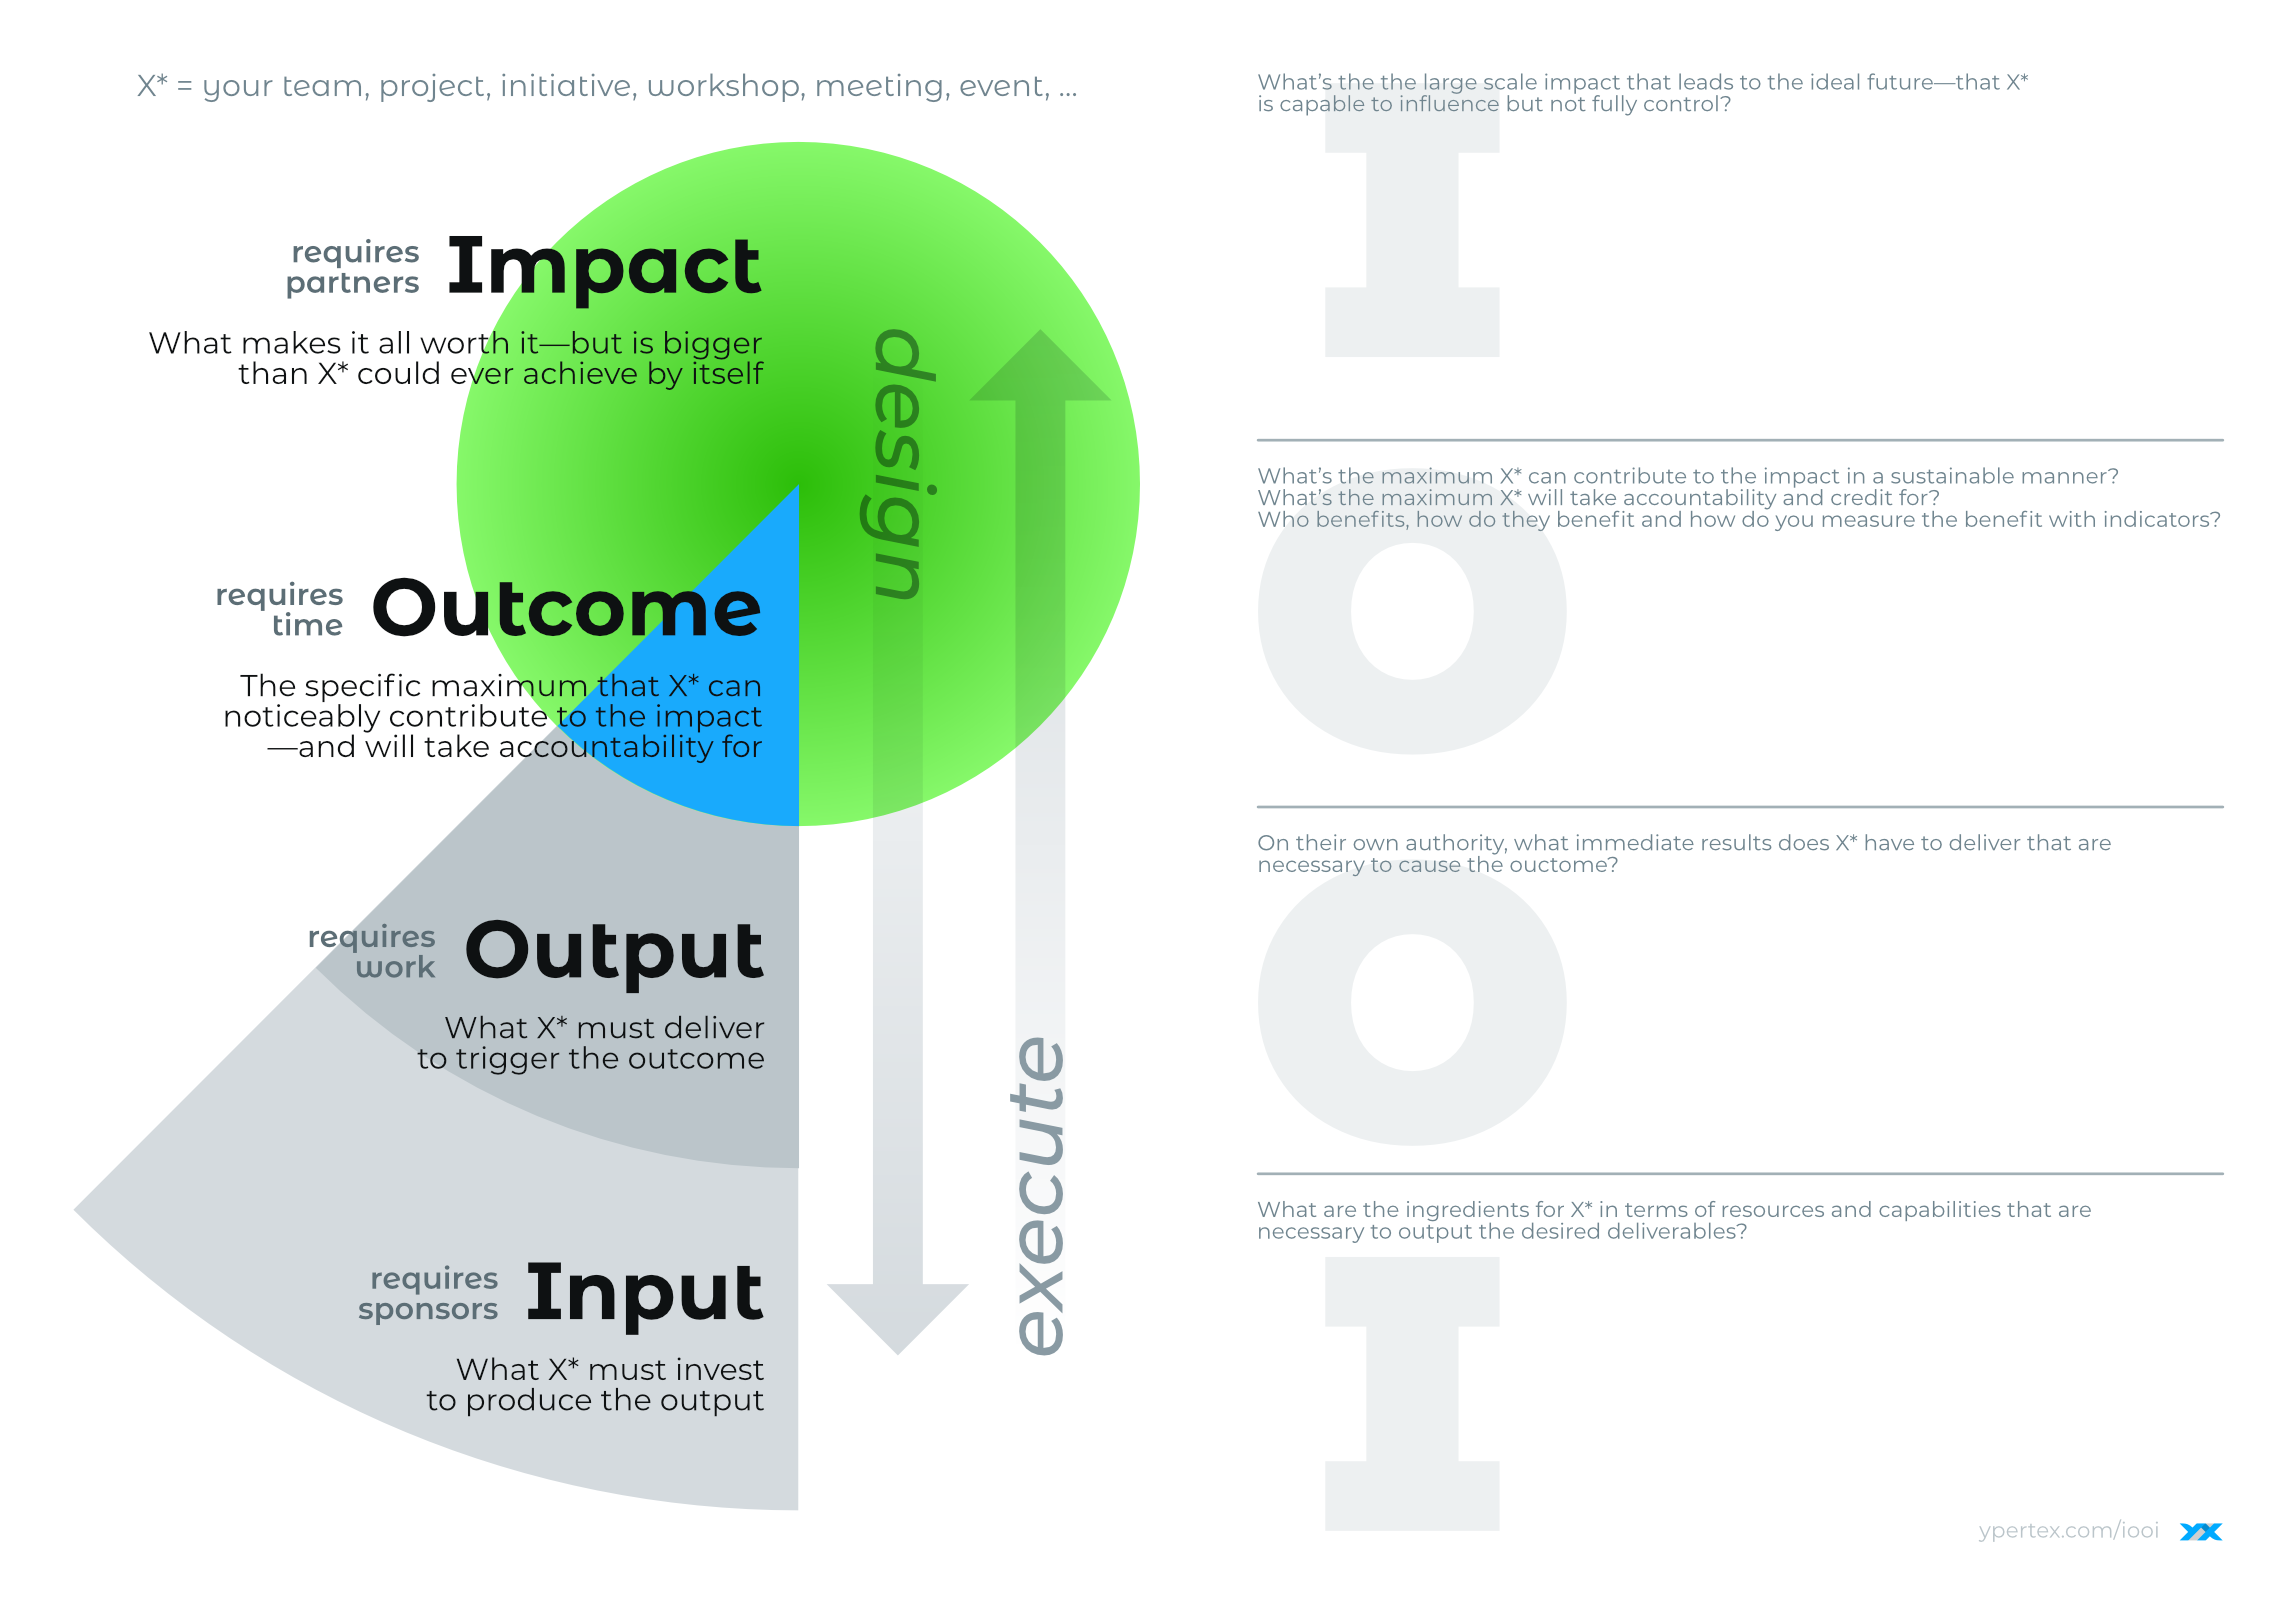
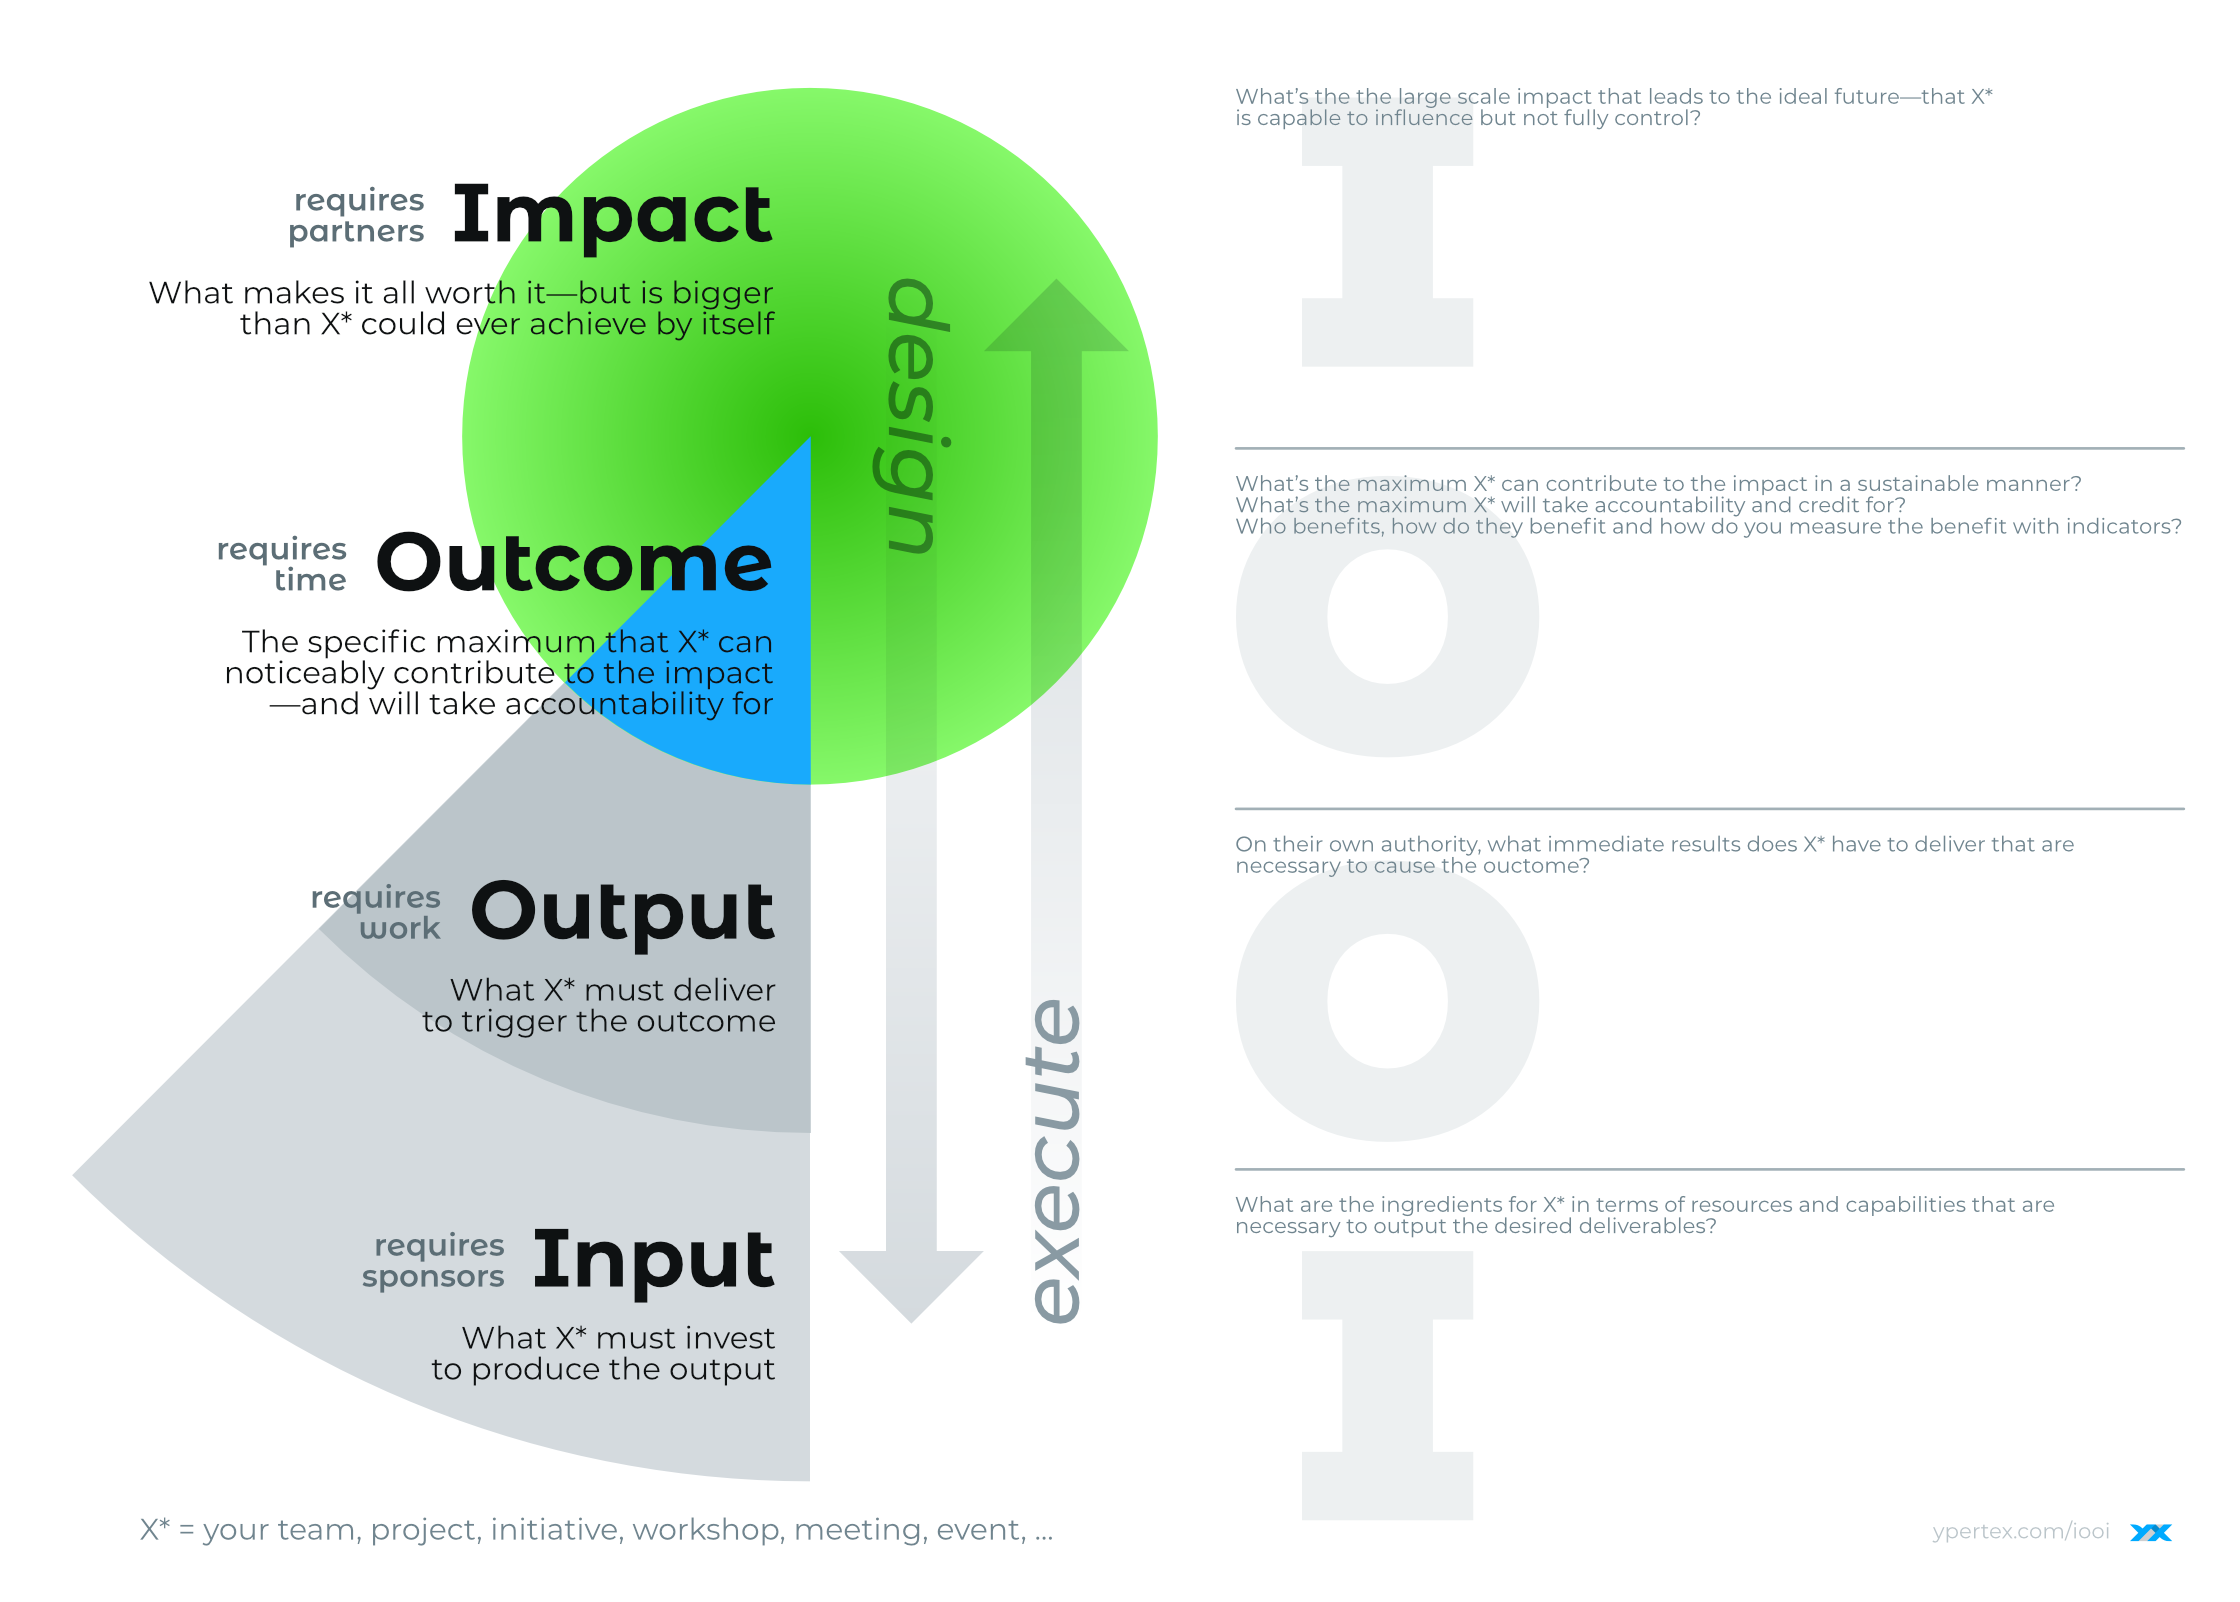
Updated canvas

diff --git a/public/articles/iooi/index.html b/public/articles/iooi/index.html
@@ -189,14 +189,14 @@
     
     <picture>
         <source media="(min-width: 1200px)"
-            srcset="https://res.cloudinary.com/ypertex/image/upload/c_scale,dpr_auto,f_auto,q_auto,w_760/0e188bfc-80f4-449e-84ae-dd1236ee4b3a">
+            srcset="https://res.cloudinary.com/ypertex/image/upload/c_scale,dpr_auto,f_auto,q_auto,w_760/6c15d920-4d02-4f9d-9015-01aec52a665a">
         <source media="(min-width: 992px)"
-            srcset="https://res.cloudinary.com/ypertex/image/upload/c_scale,dpr_auto,f_auto,q_auto,w_800/0e188bfc-80f4-449e-84ae-dd1236ee4b3a">
+            srcset="https://res.cloudinary.com/ypertex/image/upload/c_scale,dpr_auto,f_auto,q_auto,w_800/6c15d920-4d02-4f9d-9015-01aec52a665a">
         <source media="(min-width: 768px)"
-            srcset="https://res.cloudinary.com/ypertex/image/upload/c_scale,dpr_auto,f_auto,q_auto,w_720/0e188bfc-80f4-449e-84ae-dd1236ee4b3a">
+            srcset="https://res.cloudinary.com/ypertex/image/upload/c_scale,dpr_auto,f_auto,q_auto,w_720/6c15d920-4d02-4f9d-9015-01aec52a665a">
         <source media="(min-width: 576px)"
-            srcset="https://res.cloudinary.com/ypertex/image/upload/c_scale,dpr_auto,f_auto,q_auto,w_508/0e188bfc-80f4-449e-84ae-dd1236ee4b3a">
-        <img src="https://res.cloudinary.com/ypertex/image/upload/c_scale,dpr_auto,f_auto,q_auto,w_575/0e188bfc-80f4-449e-84ae-dd1236ee4b3a"
+            srcset="https://res.cloudinary.com/ypertex/image/upload/c_scale,dpr_auto,f_auto,q_auto,w_508/6c15d920-4d02-4f9d-9015-01aec52a665a">
+        <img src="https://res.cloudinary.com/ypertex/image/upload/c_scale,dpr_auto,f_auto,q_auto,w_575/6c15d920-4d02-4f9d-9015-01aec52a665a"
             alt="">
     </picture>
     

diff --git a/content/articles/iooi/_index.md b/content/articles/iooi/_index.md
@@ -47,7 +47,7 @@ Only then---in reverse order---execute.
 
 If you want it a bit fancier, here's a chart that tries to explain the same thing in a more visual way. Below, there's even a canvas that you can download and use in your projects.
 
-{{<figure src="0e188bfc-80f4-449e-84ae-dd1236ee4b3a" transformation="inline">}}
+{{<figure src="6c15d920-4d02-4f9d-9015-01aec52a665a" transformation="inline">}}
 Illustration of Impact, Outcome, Output, and Input---and how it all ties together
 {{</figure>}}
 
